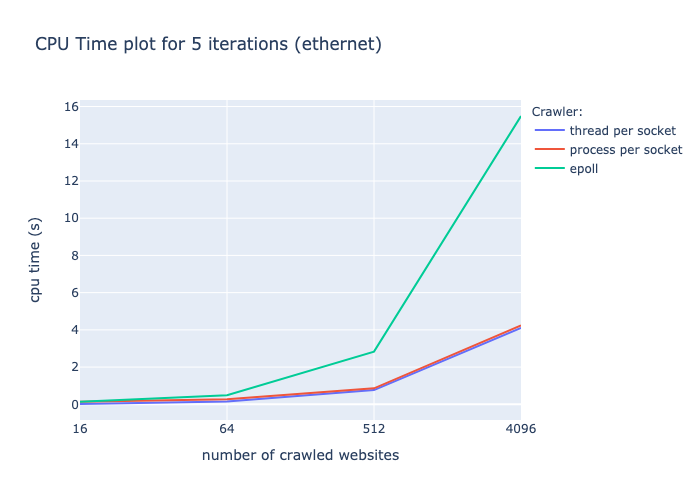
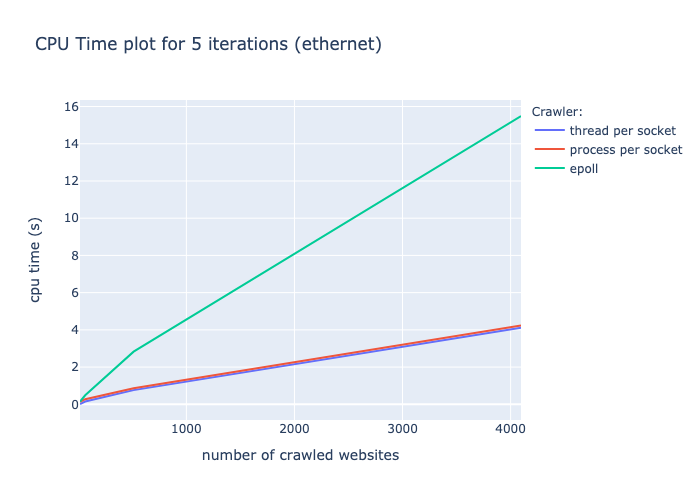
Updated scale of plots to a linear one.

diff --git a/results-visualization/plot_results.py b/results-visualization/plot_results.py
@@ -5,8 +5,8 @@ import plotly.express as px
 
 NUMBER_OF_PARAMETER_ROWS = 9
 NUMBER_OF_WARNING_ROWS = 1
-ITERATIONS = 3
-NAME_PARAMETER = 'internet'
+ITERATIONS = 5
+NAME_PARAMETER = 'ethernet'
 
 if __name__ == "__main__":
     file = sys.argv[1]
@@ -37,6 +37,7 @@ if __name__ == "__main__":
                    labels={"color": "Crawler:",
                            "real_time": "real time (s)",
                            "websites": "number of crawled websites"})
+    fig1.update_xaxes(type='linear')
     fig1.write_image(f"result_plots/{NAME_PARAMETER}_real_time.png")
 
     # Plots for different number of iterations (cpu time)
@@ -46,4 +47,5 @@ if __name__ == "__main__":
                    labels={"color": "Crawler:",
                            "cpu_time": "cpu time (s)",
                            "websites": "number of crawled websites"})
+    fig2.update_xaxes(type='linear')
     fig2.write_image(f"result_plots/{NAME_PARAMETER}_cpu_time.png")
